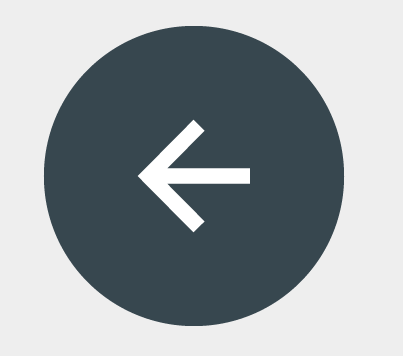
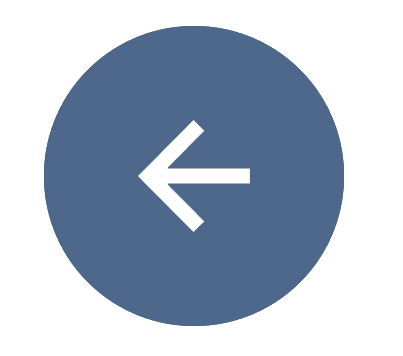
style  changes in helpdesk

diff --git a/app/elements/icon-card/icon-card.html b/app/elements/icon-card/icon-card.html
@@ -32,23 +32,42 @@ subject to an additional IP rights grant found at http://polymer.github.io/PATEN
   list-style-type: none;
   float: left;
   text-align: left;
-  margin-top: 35%;
+  margin-top: 22%;
+  display: inline;
+ }
+ li:hover{
+  background-color: #ffffff;
+ }
+ li{
+  margin-left: -18%;
+  box-shadow: 0 0 5px 0 #a6a6a6 ;
+ }
+ paper-icon-button{
+  width: 20%!important;
  }
   </style>
    <body style="height: auto;">
     <ul>
-      <li>
-        <paper-icon-button class="iconbutton" src="../../images/inbox.png" on-click="inbox"></paper-icon-button><a class="cur" on-click="inbox">Inbox({{unread}})</a>
-      </li>
-      <li id="form">
-        <paper-icon-button  class="iconbutton" src="../../images/feedback.png"  on-click="insertfeedback"></paper-icon-button><a  class="cur" on-click="insertfeedback">Feedback</a>
-      </li>
-      <li id="report">
-        <paper-icon-button  class="iconbutton" src="../../images/report_icon.png" on-click="report"></paper-icon-button><a class="cur" on-click="report">Report</a>
-      </li>
-      <li id="report">
-        <paper-icon-button  class="iconbutton" src="../../images/summary_icon.png" on-click="summaryreport"></paper-icon-button><a class="cur" on-click="summaryreport">Summary Report</a>
-      </li>
+      <a class="cur" on-click="inbox">
+        <li>
+          <paper-icon-button class="iconbutton" src="../../images/inbox.png" on-click="inbox"></paper-icon-button>Inbox({{unread}})
+        </li>
+      </a>
+      <a  class="cur" on-click="insertfeedback">
+        <li id="form">
+          <paper-icon-button  class="iconbutton" src="../../images/feedback.png"  on-click="insertfeedback"></paper-icon-button>Feedback
+        </li>
+      </a>
+      <a class="cur" on-click="report">
+        <li id="report">
+          <paper-icon-button  class="iconbutton" src="../../images/report_icon.png" on-click="report"></paper-icon-button>Report
+        </li>
+      </a>
+      <a class="cur" on-click="summaryreport">
+        <li id="report">
+          <paper-icon-button  class="iconbutton" src="../../images/summary_icon.png" on-click="summaryreport"></paper-icon-button>Summary Report
+        </li>
+      </a>
     </ul>
 
   </body>

diff --git a/app/elements/transport-app/transport-app.html b/app/elements/transport-app/transport-app.html
@@ -49,7 +49,7 @@
            <div><paper-icon-button icon="menu" paper-drawer-toggle></paper-icon-button></div>
         </paper-toolbar>
         <div>
-      <paper-menu class="content fit">
+      <paper-menu style="background-color: #4e688c !important; " class="content fit">
       
        <icon-card></icon-card>
        
@@ -60,11 +60,11 @@
       </paper-header-panel>
       
       <paper-header-panel main>
-      <paper-toolbar>
+      <paper-toolbar style="background-color: #4e688c !important; ">
             <div><paper-icon-button icon="menu" paper-drawer-toggle></paper-icon-button></div>
         <div><paper-item class="title">{{school_name}}</paper-item></div>
             <div class="flex"></div>
-          <paper-button class="in" on-click="signout">signout</paper-button>
+          <paper-button style="background-color: #ffffff; color: #4e688c;" class="in" on-click="signout">signout</paper-button>
           </paper-toolbar>
       <iron-pages selected="{{page}}" attr-for-selected="data-category">
         <section data-category="login">

diff --git a/app/elements/login-form/login-form.html b/app/elements/login-form/login-form.html
@@ -25,8 +25,7 @@
         margin-left: 45%;
       }
       .sub{
-        margin-top: 5%;
-        margin-left: 30%;
+        background-color: #4e688c;
       }
       .admin{
         margin-top: 5%;
@@ -59,7 +58,7 @@
             <div class="field">
               <paper-input type="password" label="Password" value="{{password}}" id="pass"></paper-input>
             </div>
-            <div class="field">
+            <div class="button">
               <paper-button id="sub" class="sub" on-click="login">LOGIN</paper-button>
             </div>
             <!-- <div>

diff --git a/app/elements/complaint-form/complaint-form.html b/app/elements/complaint-form/complaint-form.html
@@ -18,8 +18,11 @@
       .button{
         @apply(--layout-center);
       }
+      .complaint{
+        height: 700px;
+      }
     </style>
-    <section>
+    <div class="complaint">
       <div class="container">
         <div class="row">
           <div class="page-heading">
@@ -68,7 +71,7 @@
           </div>
         </div>
       </div>
-    </section>
+    </div>
     <query-post id='qpostid'></query-post>
   </template>
   <script>

diff --git a/app/styles/styles.css b/app/styles/styles.css
@@ -77,6 +77,7 @@ section{
     margin: 0 auto;
     height: 680px;
     overflow-y: auto;
+    background-color: #ffffff !important;
 }
 @media only screen and (max-width: 320px) {
    
@@ -377,5 +378,8 @@ paper-dialog{
 #registered .buttons{
     margin: 0 40%;
     text-align: center;
+}
+paper-button{
+    background-color: #4e688c;
 }
 </style>
